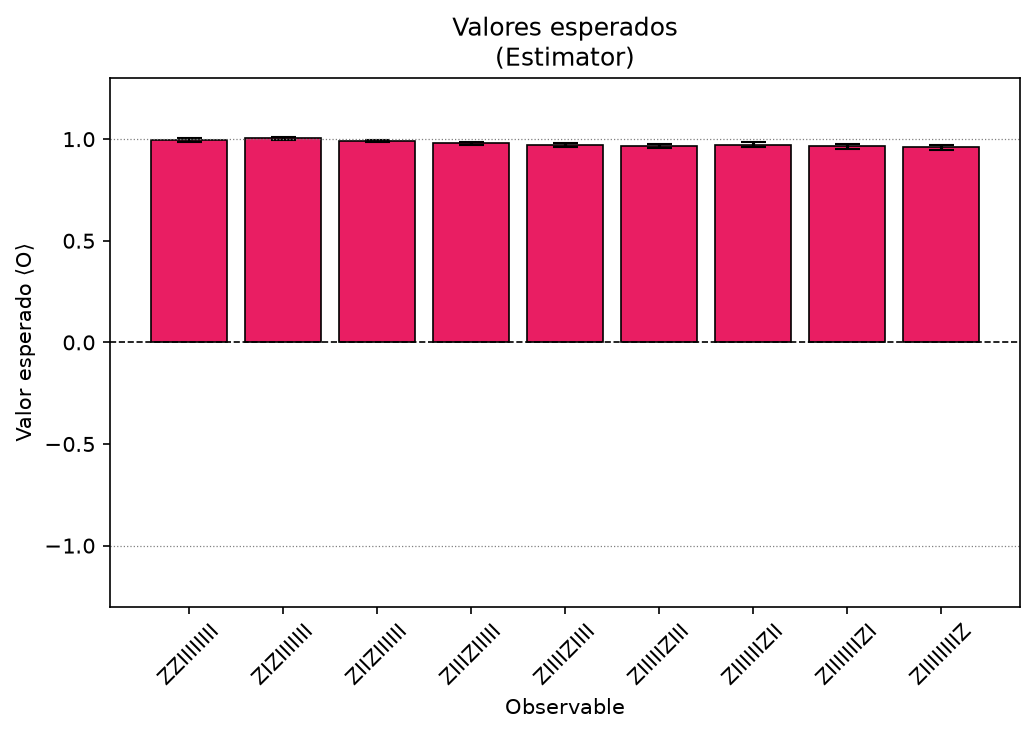
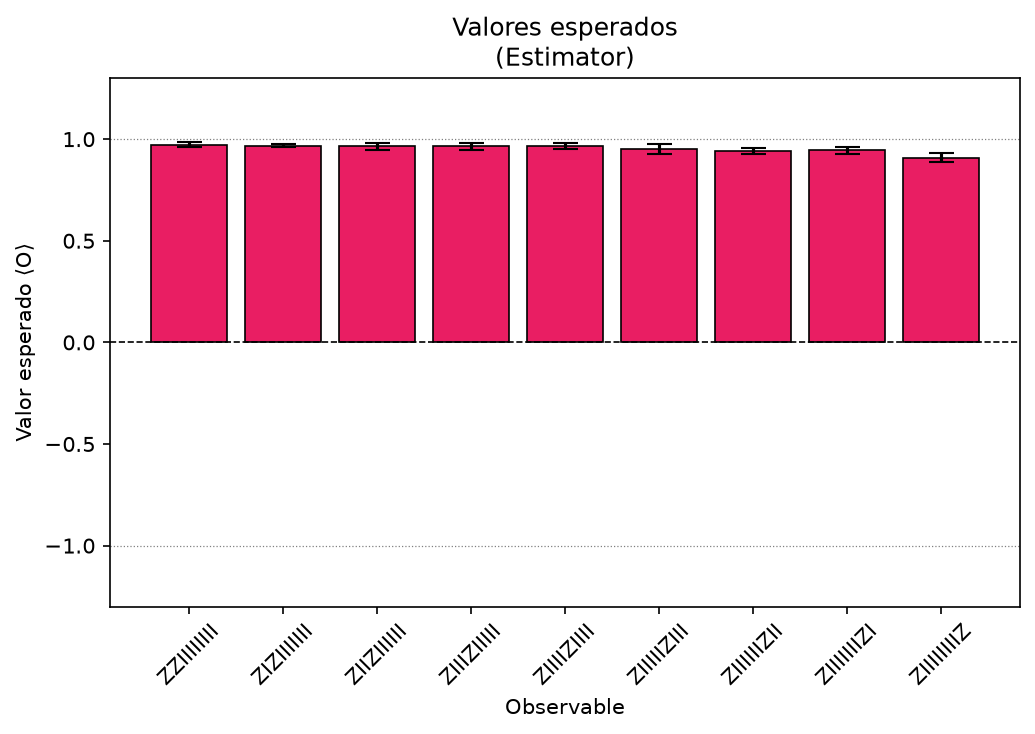
refactor: separar visualization en submódulos y mover quantum_setup a helpers/
- utils/visualization/__init__.py → solo re-exportaciones
- utils/visualization/estimator.py → plot_estimator_results, plot_ghz_decay
- utils/visualization/sampler.py → plot_sampler_results
- utils/helpers/__init__.py → nuevo paquete helpers
- utils/helpers/quantum_setup.py → corregir _PROJECT_ROOT (subir 3 niveles)
- Verificado: estimator simulator y sampler simulator OK con N_QUBITS=10 N_SHOTS=500

Changed region(s): [[0.5256, 0.1798, 0.9585, 0.2398], [0.1546, 0.1798, 0.4947, 0.2098]]

diff --git a/utils/visualization/__init__.py b/utils/visualization/__init__.py
@@ -1,134 +1,15 @@
-import os
-import matplotlib.pyplot as plt
-import numpy as np
+"""
+utils/visualization/__init__.py
+---------------------------------
+Re-exporta todas las funciones de visualización para mantener
+compatibilidad con los imports existentes:
+    from utils.visualization import plot_estimator_results, ...
+"""
+from utils.visualization.estimator import plot_estimator_results, plot_ghz_decay
+from utils.visualization.sampler import plot_sampler_results
 
-
-def plot_estimator_results(observables_labels, evs, stds, save_path=None):
-    """
-    Visualiza los resultados del Estimator:
-    - Gráfico de barras con barras de error
-    - Heatmap de valores esperados (solo si n es factorizable en 2 filas)
-    """
-    n = len(evs)
-    # Intentar reshape en 2 filas solo si es divisible
-    can_heatmap = (n % 2 == 0)
-    ncols_plot = 2 if can_heatmap else 1
-    fig, axes = plt.subplots(1, ncols_plot, figsize=(7 * ncols_plot, 5))
-    if ncols_plot == 1:
-        axes = [axes]
-
-    # 1. Gráfico de barras con barras de error
-    colors = ["#2196F3" if abs(ev) < 0.5 else "#E91E63" for ev in evs]
-    axes[0].bar(observables_labels, evs, yerr=stds, capsize=6,
-                color=colors, edgecolor="black", linewidth=0.8)
-    axes[0].axhline(0, color="black", linewidth=0.8, linestyle="--")
-    axes[0].axhline(1, color="gray", linewidth=0.6, linestyle=":")
-    axes[0].axhline(-1, color="gray", linewidth=0.6, linestyle=":")
-    axes[0].set_ylim(-1.3, 1.3)
-    axes[0].set_xlabel("Observable")
-    axes[0].set_ylabel("Valor esperado ⟨O⟩")
-    axes[0].set_title("Valores esperados\n(Estimator)")
-    axes[0].tick_params(axis='x', rotation=45)
-
-    # 2. Heatmap (solo si aplica)
-    if can_heatmap:
-        rows = 2
-        cols = n // 2
-        matrix = np.array(evs).reshape(rows, cols)
-        labels_matrix = np.array(observables_labels).reshape(rows, cols)
-        im = axes[1].imshow(matrix, cmap="RdBu", vmin=-1, vmax=1, aspect="auto")
-        for i in range(rows):
-            for j in range(cols):
-                axes[1].text(j, i, f"{labels_matrix[i,j]}\n{matrix[i,j]:.3f}",
-                             ha="center", va="center", fontsize=9, fontweight="bold")
-        axes[1].set_xticks([])
-        axes[1].set_yticks([])
-        axes[1].set_title("Mapa de valores esperados\n(azul=negativo, rojo=positivo)")
-        plt.colorbar(im, ax=axes[1], label="⟨O⟩")
-
-    plt.tight_layout()
-
-    if save_path:
-        os.makedirs(os.path.dirname(save_path), exist_ok=True)
-        fig.savefig(save_path, dpi=150, bbox_inches="tight")
-
-    plt.show()
-
-
-def plot_sampler_results(counts: dict, n_shots: int, n_qubits: int,
-                         top_n: int = 10, save_path: str = None):
-    """
-    Visualiza la distribución de bitstrings del Sampler:
-    - Gráfico de barras con los `top_n` estados más frecuentes.
-    - Para un estado GHZ ideal se esperan sólo |000...0⟩ y |111...1⟩.
-
-    Args:
-        counts    — dict {bitstring: count}
-        n_shots   — número total de shots (para calcular probabilidades)
-        n_qubits  — número de qubits del circuito
-        top_n     — cuántos estados mostrar (por defecto 10)
-        save_path — ruta donde guardar la figura (opcional)
-    """
-    sorted_counts = sorted(counts.items(), key=lambda x: -x[1])[:top_n]
-    labels = [f"|{bs}⟩" for bs, _ in sorted_counts]
-    probs  = [cnt / n_shots for _, cnt in sorted_counts]
-
-    # Colorear en rojo los dos estados GHZ ideales, azul el resto
-    ghz_zero = "0" * n_qubits
-    ghz_one  = "1" * n_qubits
-    colors = [
-        "#E91E63" if bs in (ghz_zero, ghz_one) else "#2196F3"
-        for bs, _ in sorted_counts
-    ]
-
-    fig, ax = plt.subplots(figsize=(max(8, len(labels) * 0.9), 5))
-    bars = ax.bar(labels, probs, color=colors, edgecolor="black", linewidth=0.8)
-    ax.set_xlabel("Estado de medición")
-    ax.set_ylabel("Probabilidad")
-    ax.set_title(
-        f"Distribución Sampler — {n_qubits} qubits, {n_shots} shots\n"
-        f"(rojo = estados GHZ ideales |{'0'*n_qubits}⟩ / |{'1'*n_qubits}⟩)"
-    )
-    ax.set_ylim(0, min(1.1, max(probs) * 1.25))
-    ax.tick_params(axis="x", rotation=45)
-
-    # Etiqueta de probabilidad encima de cada barra
-    for bar, prob in zip(bars, probs):
-        ax.text(
-            bar.get_x() + bar.get_width() / 2,
-            bar.get_height() + 0.005,
-            f"{prob:.3f}",
-            ha="center", va="bottom", fontsize=8
-        )
-
-    plt.tight_layout()
-
-    if save_path:
-        os.makedirs(os.path.dirname(save_path), exist_ok=True)
-        fig.savefig(save_path, dpi=150, bbox_inches="tight")
-
-    plt.show()
-
-
-def plot_ghz_decay(evs, n_qubits: int, label: str = "GHZ state", save_path=None):
-    """
-    Visualiza el decaimiento de las correlaciones ZZ con la distancia entre qubits.
-    Solo aplica para GHZ states (N_QUBITS > 2).
-    """
-    import matplotlib.pyplot as plt
-
-    data = list(range(1, len(evs) + 1))
-    values_normalized = [v / evs[0] for v in evs]
-
-    fig, ax = plt.subplots(figsize=(10, 5))
-    ax.plot(data, values_normalized, marker="o", label=f"{n_qubits}-qubit {label}")
-    ax.set_xlabel("Distance between qubits $i$")
-    ax.set_ylabel(r"$\langle Z_i Z_0 \rangle / \langle Z_1 Z_0 \rangle$")
-    ax.legend()
-    plt.tight_layout()
-
-    if save_path:
-        os.makedirs(os.path.dirname(save_path), exist_ok=True)
-        fig.savefig(save_path, dpi=150, bbox_inches="tight")
-
-    plt.show()
+__all__ = [
+    "plot_estimator_results",
+    "plot_ghz_decay",
+    "plot_sampler_results",
+]

diff --git a/utils/visualization/estimator.py b/utils/visualization/estimator.py
@@ -1,0 +1,81 @@
+"""
+estimator.py
+-------------
+Funciones de visualización para resultados del Estimator primitive.
+"""
+import os
+import matplotlib.pyplot as plt
+import numpy as np
+
+
+def plot_estimator_results(observables_labels, evs, stds, save_path=None):
+    """
+    Visualiza los resultados del Estimator:
+    - Gráfico de barras con barras de error
+    - Heatmap de valores esperados (solo si n es divisible en 2 filas)
+    """
+    n = len(evs)
+    can_heatmap = (n % 2 == 0)
+    ncols_plot = 2 if can_heatmap else 1
+    fig, axes = plt.subplots(1, ncols_plot, figsize=(7 * ncols_plot, 5))
+    if ncols_plot == 1:
+        axes = [axes]
+
+    # 1. Gráfico de barras con barras de error
+    colors = ["#2196F3" if abs(ev) < 0.5 else "#E91E63" for ev in evs]
+    axes[0].bar(observables_labels, evs, yerr=stds, capsize=6,
+                color=colors, edgecolor="black", linewidth=0.8)
+    axes[0].axhline(0, color="black", linewidth=0.8, linestyle="--")
+    axes[0].axhline(1, color="gray", linewidth=0.6, linestyle=":")
+    axes[0].axhline(-1, color="gray", linewidth=0.6, linestyle=":")
+    axes[0].set_ylim(-1.3, 1.3)
+    axes[0].set_xlabel("Observable")
+    axes[0].set_ylabel("Valor esperado ⟨O⟩")
+    axes[0].set_title("Valores esperados\n(Estimator)")
+    axes[0].tick_params(axis="x", rotation=45)
+
+    # 2. Heatmap (solo si aplica)
+    if can_heatmap:
+        rows = 2
+        cols = n // 2
+        matrix = np.array(evs).reshape(rows, cols)
+        labels_matrix = np.array(observables_labels).reshape(rows, cols)
+        im = axes[1].imshow(matrix, cmap="RdBu", vmin=-1, vmax=1, aspect="auto")
+        for i in range(rows):
+            for j in range(cols):
+                axes[1].text(j, i, f"{labels_matrix[i,j]}\n{matrix[i,j]:.3f}",
+                             ha="center", va="center", fontsize=9, fontweight="bold")
+        axes[1].set_xticks([])
+        axes[1].set_yticks([])
+        axes[1].set_title("Mapa de valores esperados\n(azul=negativo, rojo=positivo)")
+        plt.colorbar(im, ax=axes[1], label="⟨O⟩")
+
+    plt.tight_layout()
+
+    if save_path:
+        os.makedirs(os.path.dirname(save_path), exist_ok=True)
+        fig.savefig(save_path, dpi=150, bbox_inches="tight")
+
+    plt.show()
+
+
+def plot_ghz_decay(evs, n_qubits: int, label: str = "GHZ state", save_path=None):
+    """
+    Visualiza el decaimiento de las correlaciones ZZ con la distancia entre qubits.
+    Solo aplica para estados GHZ (N_QUBITS > 2).
+    """
+    data = list(range(1, len(evs) + 1))
+    values_normalized = [v / evs[0] for v in evs]
+
+    fig, ax = plt.subplots(figsize=(10, 5))
+    ax.plot(data, values_normalized, marker="o", label=f"{n_qubits}-qubit {label}")
+    ax.set_xlabel("Distance between qubits $i$")
+    ax.set_ylabel(r"$\langle Z_i Z_0 \rangle / \langle Z_1 Z_0 \rangle$")
+    ax.legend()
+    plt.tight_layout()
+
+    if save_path:
+        os.makedirs(os.path.dirname(save_path), exist_ok=True)
+        fig.savefig(save_path, dpi=150, bbox_inches="tight")
+
+    plt.show()

diff --git a/utils/visualization/sampler.py b/utils/visualization/sampler.py
@@ -1,0 +1,62 @@
+"""
+sampler.py
+-----------
+Funciones de visualización para resultados del Sampler primitive.
+"""
+import os
+import matplotlib.pyplot as plt
+
+
+def plot_sampler_results(counts: dict, n_shots: int, n_qubits: int,
+                         top_n: int = 10, save_path: str = None):
+    """
+    Visualiza la distribución de bitstrings del Sampler:
+    - Gráfico de barras con los `top_n` estados más frecuentes.
+    - Para un estado GHZ ideal se esperan sólo |000...0⟩ y |111...1⟩.
+
+    Args:
+        counts    — dict {bitstring: count}
+        n_shots   — número total de shots (para calcular probabilidades)
+        n_qubits  — número de qubits del circuito
+        top_n     — cuántos estados mostrar (por defecto 10)
+        save_path — ruta donde guardar la figura (opcional)
+    """
+    sorted_counts = sorted(counts.items(), key=lambda x: -x[1])[:top_n]
+    labels = [f"|{bs}⟩" for bs, _ in sorted_counts]
+    probs  = [cnt / n_shots for _, cnt in sorted_counts]
+
+    # Colorear en rojo los dos estados GHZ ideales, azul el resto
+    ghz_zero = "0" * n_qubits
+    ghz_one  = "1" * n_qubits
+    colors = [
+        "#E91E63" if bs in (ghz_zero, ghz_one) else "#2196F3"
+        for bs, _ in sorted_counts
+    ]
+
+    fig, ax = plt.subplots(figsize=(max(8, len(labels) * 0.9), 5))
+    bars = ax.bar(labels, probs, color=colors, edgecolor="black", linewidth=0.8)
+    ax.set_xlabel("Estado de medición")
+    ax.set_ylabel("Probabilidad")
+    ax.set_title(
+        f"Distribución Sampler — {n_qubits} qubits, {n_shots} shots\n"
+        f"(rojo = estados GHZ ideales |{'0'*n_qubits}⟩ / |{'1'*n_qubits}⟩)"
+    )
+    ax.set_ylim(0, min(1.1, max(probs) * 1.25))
+    ax.tick_params(axis="x", rotation=45)
+
+    # Etiqueta de probabilidad encima de cada barra
+    for bar, prob in zip(bars, probs):
+        ax.text(
+            bar.get_x() + bar.get_width() / 2,
+            bar.get_height() + 0.005,
+            f"{prob:.3f}",
+            ha="center", va="bottom", fontsize=8
+        )
+
+    plt.tight_layout()
+
+    if save_path:
+        os.makedirs(os.path.dirname(save_path), exist_ok=True)
+        fig.savefig(save_path, dpi=150, bbox_inches="tight")
+
+    plt.show()

diff --git a/utils/helpers/quantum_setup.py b/utils/helpers/quantum_setup.py
@@ -15,7 +15,8 @@ from qiskit.transpiler import generate_preset_pass_manager
 from qiskit.providers.fake_provider import GenericBackendV2
 
 # Rutas del proyecto calculadas una sola vez al importar el módulo
-_PROJECT_ROOT = os.path.dirname(os.path.dirname(os.path.abspath(__file__)))
+# __file__ = .../utils/helpers/quantum_setup.py  →  subir 3 niveles para llegar a la raíz
+_PROJECT_ROOT = os.path.dirname(os.path.dirname(os.path.dirname(os.path.abspath(__file__))))
 _SRC = os.path.join(_PROJECT_ROOT, "src")
 
 

diff --git a/src/PrimitiveExecution/03_quantum_sampler_simulator.py b/src/PrimitiveExecution/03_quantum_sampler_simulator.py
@@ -14,7 +14,7 @@ sys.path.insert(0, os.path.dirname(os.path.dirname(os.path.dirname(__file__))))
 
 from utils.config.env import N_SHOTS, N_QUBITS
 from utils.visualization import plot_sampler_results
-from utils.quantum_setup import build_simulator_context, add_measurements
+from utils.helpers.quantum_setup import build_simulator_context, add_measurements
 
 # --- Setup compartido ---
 ctx = build_simulator_context(N_QUBITS)

diff --git a/src/PrimitiveExecution/03_quantum_estimator_simulator.py b/src/PrimitiveExecution/03_quantum_estimator_simulator.py
@@ -13,7 +13,7 @@ sys.path.insert(0, os.path.dirname(os.path.dirname(os.path.dirname(__file__))))
 
 from utils.config.env import N_SHOTS, N_QUBITS
 from utils.visualization import plot_estimator_results, plot_ghz_decay
-from utils.quantum_setup import build_simulator_context
+from utils.helpers.quantum_setup import build_simulator_context
 
 # --- Setup compartido ---
 ctx = build_simulator_context(N_QUBITS)

diff --git a/utils/helpers/__init__.py b/utils/helpers/__init__.py
@@ -1,0 +1,11 @@
+from utils.helpers.quantum_setup import (
+    build_simulator_context,
+    build_hardware_context,
+    add_measurements,
+)
+
+__all__ = [
+    "build_simulator_context",
+    "build_hardware_context",
+    "add_measurements",
+]
